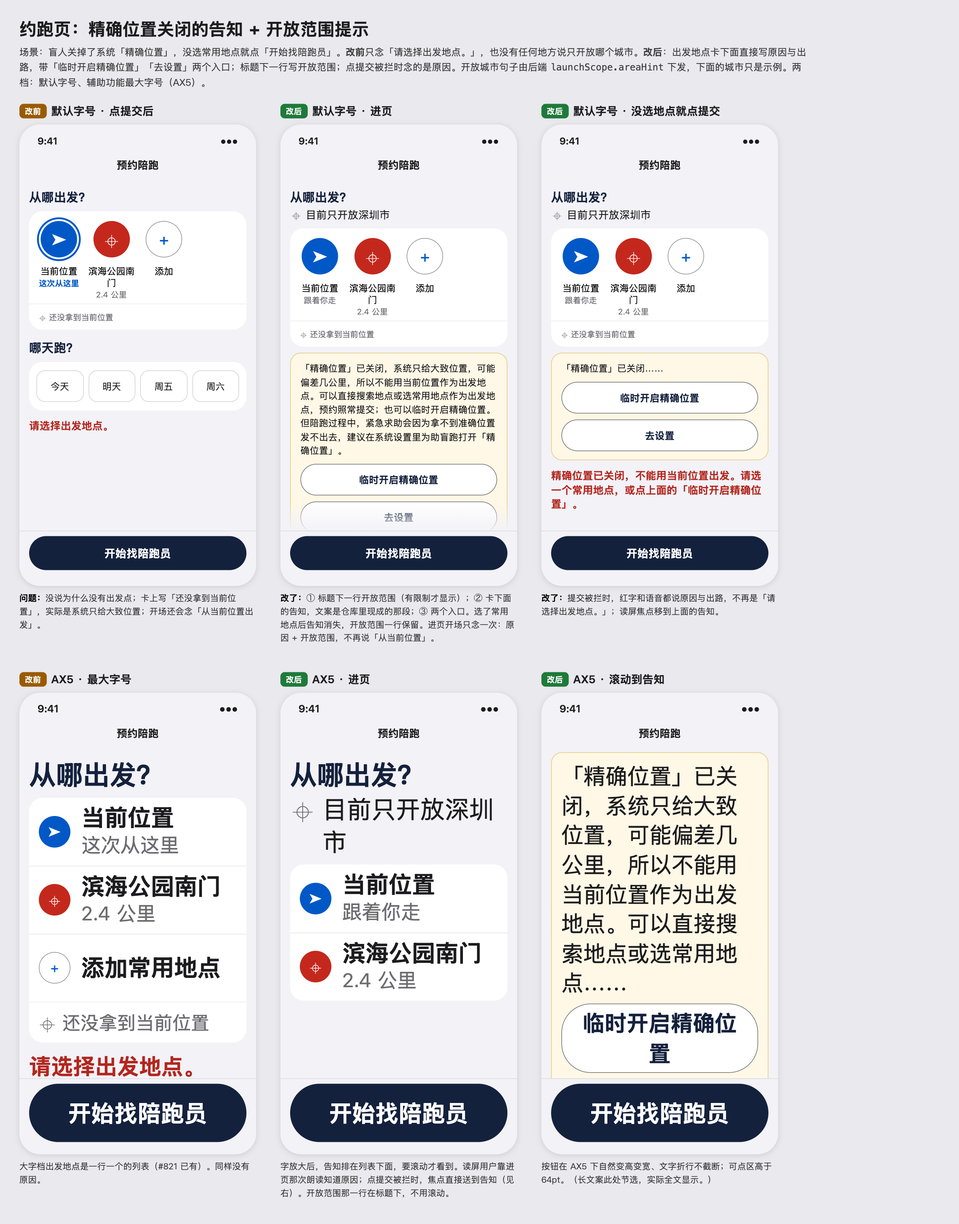
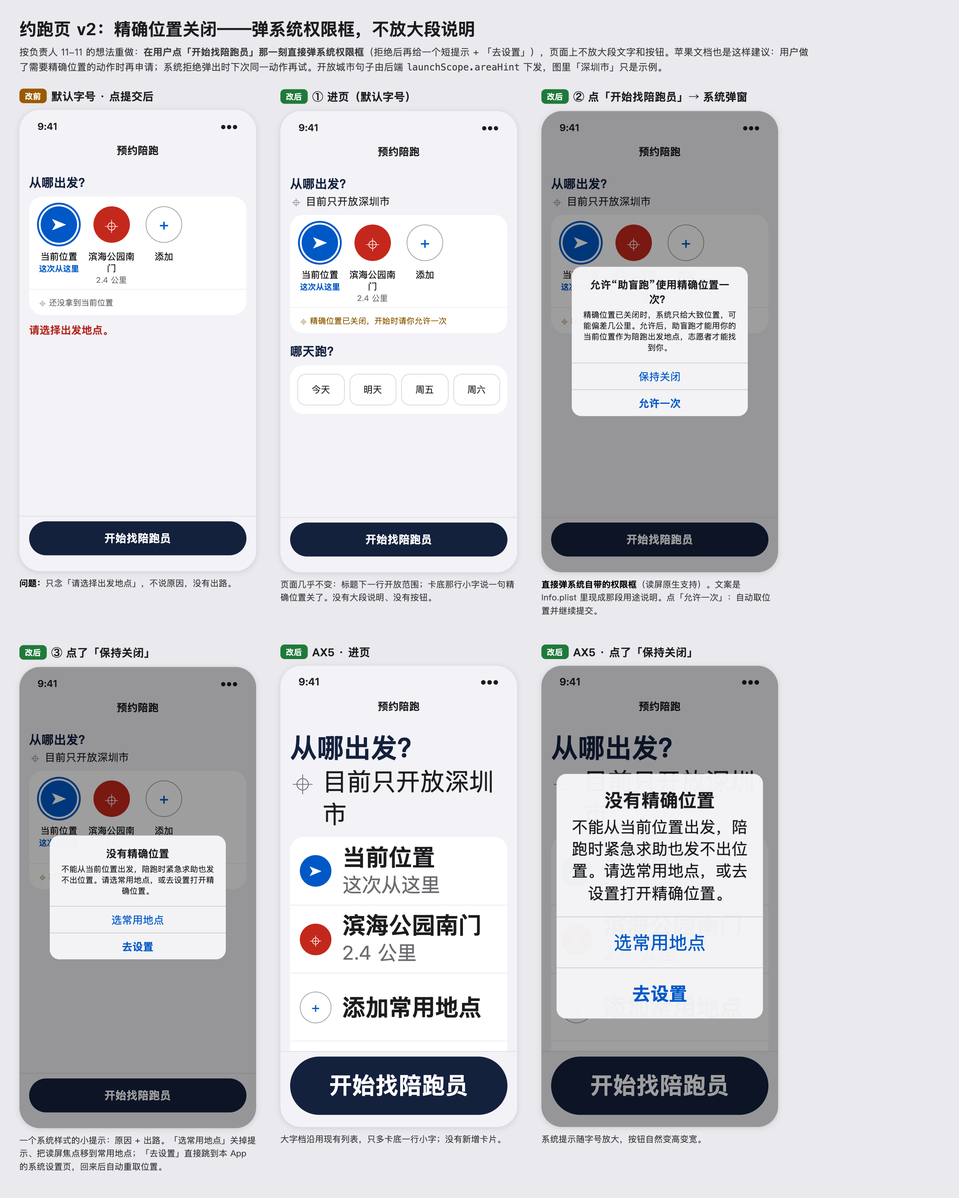
docs: 约跑页精确位置改弹系统权限框 v2 模拟图，附调研（#813）

diff --git a/docs/ui/mockups/booking-gate-20261111/booking-gate.html b/docs/ui/mockups/booking-gate-20261111/booking-gate.html
@@ -41,84 +41,36 @@ h1{font-size:28px;margin-bottom:6px}.lead{font-size:15.5px;color:#3a3a3c;margin-
 .ax .notice p{font-size:36px;line-height:1.35}.ax .btn{font-size:36px;min-height:96px;padding:6px 16px;text-align:center;border-radius:48px}
 .ax .det{font-size:30px}.ax .sub{height:96px;font-size:38px;border-radius:48px}.ax .bar{padding-bottom:20px}.ax .err{font-size:36px}
 .ax.phone .status,.ax.phone .nav{font-size:17px}
-</style></head><body>
-<h1>约跑页：精确位置关闭的告知 + 开放范围提示</h1>
-<p class="lead">场景：盲人关掉了系统「精确位置」，没选常用地点就点「开始找陪跑员」。<b>改前</b>只念「请选择出发地点。」，也没有任何地方说只开放哪个城市。<b>改后</b>：出发地点卡下面直接写原因与出路，带「临时开启精确位置」「去设置」两个入口；标题下一行写开放范围；点提交被拦时念的是原因。开放城市句子由后端 <code>launchScope.areaHint</code> 下发，下面的城市只是示例。两档：默认字号、辅助功能最大字号（AX5）。</p>
-<div class="grid">
 
-<!-- 1 改前 默认 -->
-<div><div class="lbl"><span class="tag t-old">改前</span>默认字号 · 点提交后</div>
-<div class="phone"><div class="status"><span>9:41</span><span>●●●</span></div><div class="nav">预约陪跑</div>
-<div class="page"><div class="h">从哪出发？</div>
-<div class="card"><div class="lib">
+.dim{position:absolute;inset:0;background:rgba(0,0,0,.38)}
+.alert{position:absolute;left:50%;top:50%;transform:translate(-50%,-50%);width:290px;background:rgba(246,246,248,.97);border-radius:16px;text-align:center;overflow:hidden}
+.alert .t{font-weight:600;font-size:17px;padding:18px 16px 4px}.alert .m{font-size:13px;line-height:1.4;padding:0 16px 16px;color:#1c1c1e}
+.alert .b{border-top:.5px solid #C6C6C8;min-height:44px;display:flex;align-items:center;justify-content:center;font-size:17px;color:var(--blue)}.alert .b.s{font-weight:600}
+.ax .alert{width:340px}.ax .alert .t{font-size:30px;padding:22px 16px 6px}.ax .alert .m{font-size:26px;padding:0 16px 20px}.ax .alert .b{font-size:30px;min-height:84px;padding:6px}
+.det.warn{color:#8A5A00}
+</style></head><body>
+<h1>约跑页 v2：精确位置关闭——弹系统权限框，不放大段说明</h1>
+<p class="lead">按负责人 11-11 的想法重做：<b>在用户点「开始找陪跑员」那一刻直接弹系统权限框</b>（拒绝后再给一个短提示 + 「去设置」），页面上不放大段文字和按钮。苹果文档也是这样建议：用户做了需要精确位置的动作时再申请；系统拒绝弹出时下次同一动作再试。开放城市句子由后端 <code>launchScope.areaHint</code> 下发，图里「深圳市」只是示例。</p>
+<div class="grid"><div><div class="lbl"><span class="tag t-old">改前</span>默认字号 · 点提交后</div><div class="phone "><div class="status"><span>9:41</span><span>●●●</span></div><div class="nav">预约陪跑</div><div class="page"><div class="h">从哪出发？</div><div class="card"><div class="lib">
 <div class="it sel"><div class="circ" style="background:#0058C7">➤</div><div class="nm">当前位置</div><div class="sb">这次从这里</div></div>
 <div class="it"><div class="circ" style="background:#C4281C">⌖</div><div class="nm">滨海公园南门</div><div class="sb">2.4 公里</div></div>
 <div class="it"><div class="circ" style="background:#fff;color:#0058C7;border:1px solid #8E8E93">+</div><div class="nm">添加</div></div></div>
-<div class="det">⌖ 还没拿到当前位置</div></div>
-<div class="h">哪天跑？</div><div class="card"><div class="strip"><span>今天</span><span>明天</span><span>周五</span><span>周六</span></div></div>
-<div class="err">请选择出发地点。</div></div>
-<div class="bar"><div class="sub">开始找陪跑员</div></div></div>
-<p class="cap"><b>问题：</b>没说为什么没有出发点；卡上写「还没拿到当前位置」，实际是系统只给大致位置；开场还会念「从当前位置出发」。</p></div>
-
-<!-- 2 改后 默认 -->
-<div><div class="lbl"><span class="tag t-new">改后</span>默认字号 · 进页</div>
-<div class="phone"><div class="status"><span>9:41</span><span>●●●</span></div><div class="nav">预约陪跑</div>
-<div class="page"><div class="h" style="margin-bottom:6px">从哪出发？</div>
-<div class="scope"><i>⌖</i><span>目前只开放深圳市</span></div>
-<div class="card"><div class="lib">
-<div class="it"><div class="circ" style="background:#0058C7">➤</div><div class="nm">当前位置</div><div class="sb">跟着你走</div></div>
+<div class="det ">⌖ 还没拿到当前位置</div></div><div class="err">请选择出发地点。</div></div><div class="bar"><div class="sub">开始找陪跑员</div></div></div><p class="cap"><b>问题：</b>只念「请选择出发地点」，不说原因，没有出路。</p></div><div><div class="lbl"><span class="tag t-new">改后</span>① 进页（默认字号）</div><div class="phone "><div class="status"><span>9:41</span><span>●●●</span></div><div class="nav">预约陪跑</div><div class="page"><div class="h" style="margin-bottom:6px">从哪出发？</div><div class="scope"><i>⌖</i><span>目前只开放深圳市</span></div><div class="card"><div class="lib">
+<div class="it sel"><div class="circ" style="background:#0058C7">➤</div><div class="nm">当前位置</div><div class="sb">这次从这里</div></div>
 <div class="it"><div class="circ" style="background:#C4281C">⌖</div><div class="nm">滨海公园南门</div><div class="sb">2.4 公里</div></div>
 <div class="it"><div class="circ" style="background:#fff;color:#0058C7;border:1px solid #8E8E93">+</div><div class="nm">添加</div></div></div>
-<div class="det">⌖ 还没拿到当前位置</div></div>
-<div class="notice"><p>「精确位置」已关闭，系统只给大致位置，可能偏差几公里，所以不能用当前位置作为出发地点。可以直接搜索地点或选常用地点作为出发地点，预约照常提交；也可以临时开启精确位置。但陪跑过程中，紧急求助会因为拿不到准确位置发不出去，建议在系统设置里为助盲跑打开「精确位置」。</p>
-<div class="btn">临时开启精确位置</div><div class="btn">去设置</div></div>
-<div class="h">哪天跑？</div></div>
-<div class="fade"></div><div class="bar"><div class="sub">开始找陪跑员</div></div></div>
-<p class="cap"><b>改了：</b>① 标题下一行开放范围（有限制才显示）；② 卡下面的告知，文案是仓库里现成的那段；③ 两个入口。选了常用地点后告知消失，开放范围一行保留。进页开场只念一次：原因 + 开放范围，不再说「从当前位置」。</p></div>
-
-<!-- 3 改后 默认 提交被拦 -->
-<div><div class="lbl"><span class="tag t-new">改后</span>默认字号 · 没选地点就点提交</div>
-<div class="phone"><div class="status"><span>9:41</span><span>●●●</span></div><div class="nav">预约陪跑</div>
-<div class="page"><div class="h" style="margin-bottom:6px">从哪出发？</div>
-<div class="scope"><i>⌖</i><span>目前只开放深圳市</span></div>
-<div class="card"><div class="lib">
-<div class="it"><div class="circ" style="background:#0058C7">➤</div><div class="nm">当前位置</div><div class="sb">跟着你走</div></div>
+<div class="det warn">⌖ 精确位置已关闭，开始时请你允许一次</div></div><div class="h">哪天跑？</div><div class="card"><div class="strip"><span>今天</span><span>明天</span><span>周五</span><span>周六</span></div></div></div><div class="bar"><div class="sub">开始找陪跑员</div></div></div><p class="cap">页面几乎不变：标题下一行开放范围；卡底那行小字说一句精确位置关了。没有大段说明、没有按钮。</p></div><div><div class="lbl"><span class="tag t-new">改后</span>② 点「开始找陪跑员」→ 系统弹窗</div><div class="phone "><div class="status"><span>9:41</span><span>●●●</span></div><div class="nav">预约陪跑</div><div class="page"><div class="h" style="margin-bottom:6px">从哪出发？</div><div class="scope"><i>⌖</i><span>目前只开放深圳市</span></div><div class="card"><div class="lib">
+<div class="it sel"><div class="circ" style="background:#0058C7">➤</div><div class="nm">当前位置</div><div class="sb">这次从这里</div></div>
 <div class="it"><div class="circ" style="background:#C4281C">⌖</div><div class="nm">滨海公园南门</div><div class="sb">2.4 公里</div></div>
 <div class="it"><div class="circ" style="background:#fff;color:#0058C7;border:1px solid #8E8E93">+</div><div class="nm">添加</div></div></div>
-<div class="det">⌖ 还没拿到当前位置</div></div>
-<div class="notice"><p>「精确位置」已关闭……</p><div class="btn">临时开启精确位置</div><div class="btn">去设置</div></div>
-<div class="err">精确位置已关闭，不能用当前位置出发。请选一个常用地点，或点上面的「临时开启精确位置」。</div></div>
-<div class="bar"><div class="sub">开始找陪跑员</div></div></div>
-<p class="cap"><b>改了：</b>提交被拦时，红字和语音都说原因与出路，不再是「请选择出发地点。」；读屏焦点移到上面的告知。</p></div>
-
-<!-- 4 改前 AX5 -->
-<div><div class="lbl"><span class="tag t-old">改前</span>AX5 · 最大字号</div>
-<div class="phone ax"><div class="status"><span>9:41</span><span>●●●</span></div><div class="nav">预约陪跑</div>
-<div class="page"><div class="h">从哪出发？</div>
-<div class="card"><div class="row"><div class="circ" style="background:#0058C7">➤</div><div><b>当前位置</b><s>这次从这里</s></div></div>
+<div class="det warn">⌖ 精确位置已关闭，开始时请你允许一次</div></div></div><div class="bar"><div class="sub">开始找陪跑员</div></div><div class="dim"></div><div class="alert"><div class="t">允许“助盲跑”使用精确位置一次？</div><div class="m">精确位置已关闭时，系统只给大致位置，可能偏差几公里。允许后，助盲跑才能用你的当前位置作为陪跑出发地点，志愿者才能找到你。</div><div class="b">保持关闭</div><div class="b s">允许一次</div></div></div><p class="cap"><b>直接弹系统自带的权限框</b>（读屏原生支持）。文案是 Info.plist 里现成那段用途说明。点「允许一次」：自动取位置并继续提交。</p></div><div><div class="lbl"><span class="tag t-new">改后</span>③ 点了「保持关闭」</div><div class="phone "><div class="status"><span>9:41</span><span>●●●</span></div><div class="nav">预约陪跑</div><div class="page"><div class="h" style="margin-bottom:6px">从哪出发？</div><div class="scope"><i>⌖</i><span>目前只开放深圳市</span></div><div class="card"><div class="lib">
+<div class="it sel"><div class="circ" style="background:#0058C7">➤</div><div class="nm">当前位置</div><div class="sb">这次从这里</div></div>
+<div class="it"><div class="circ" style="background:#C4281C">⌖</div><div class="nm">滨海公园南门</div><div class="sb">2.4 公里</div></div>
+<div class="it"><div class="circ" style="background:#fff;color:#0058C7;border:1px solid #8E8E93">+</div><div class="nm">添加</div></div></div>
+<div class="det warn">⌖ 精确位置已关闭，开始时请你允许一次</div></div></div><div class="bar"><div class="sub">开始找陪跑员</div></div><div class="dim"></div><div class="alert"><div class="t">没有精确位置</div><div class="m">不能从当前位置出发，陪跑时紧急求助也发不出位置。请选常用地点，或去设置打开精确位置。</div><div class="b">选常用地点</div><div class="b s">去设置</div></div></div><p class="cap">一个系统样式的小提示：原因 + 出路。「选常用地点」关掉提示、把读屏焦点移到常用地点；「去设置」直接跳到本 App 的系统设置页，回来后自动重取位置。</p></div><div><div class="lbl"><span class="tag t-new">改后</span>AX5 · 进页</div><div class="phone ax"><div class="status"><span>9:41</span><span>●●●</span></div><div class="nav">预约陪跑</div><div class="page"><div class="h" style="margin-bottom:6px">从哪出发？</div><div class="scope"><i>⌖</i><span>目前只开放深圳市</span></div><div class="card"><div class="row"><div class="circ" style="background:#0058C7">➤</div><div><b>当前位置</b><s>这次从这里</s></div></div>
 <div class="row"><div class="circ" style="background:#C4281C">⌖</div><div><b>滨海公园南门</b><s>2.4 公里</s></div></div>
 <div class="row"><div class="circ" style="background:#fff;color:#0058C7;border:1px solid #8E8E93">+</div><div><b>添加常用地点</b></div></div>
-<div class="det">⌖ 还没拿到当前位置</div></div>
-<div class="err">请选择出发地点。</div></div>
-<div class="bar"><div class="sub">开始找陪跑员</div></div></div>
-<p class="cap">大字档出发地点是一行一个的列表（#821 已有）。同样没有原因。</p></div>
-
-<!-- 5 改后 AX5 -->
-<div><div class="lbl"><span class="tag t-new">改后</span>AX5 · 进页</div>
-<div class="phone ax"><div class="status"><span>9:41</span><span>●●●</span></div><div class="nav">预约陪跑</div>
-<div class="page"><div class="h" style="margin-bottom:6px">从哪出发？</div>
-<div class="scope"><i>⌖</i><span>目前只开放深圳市</span></div>
-<div class="card"><div class="row"><div class="circ" style="background:#0058C7">➤</div><div><b>当前位置</b><s>跟着你走</s></div></div>
-<div class="row"><div class="circ" style="background:#C4281C">⌖</div><div><b>滨海公园南门</b><s>2.4 公里</s></div></div></div></div>
-<div class="fade"></div><div class="bar"><div class="sub">开始找陪跑员</div></div></div>
-<p class="cap">字放大后，告知排在列表下面，要滚动才看到。读屏用户靠进页那次朗读知道原因；点提交被拦时，焦点直接送到告知（见右）。开放范围那一行在标题下，不用滚动。</p></div>
-
-<!-- 6 改后 AX5 滚动后 -->
-<div><div class="lbl"><span class="tag t-new">改后</span>AX5 · 滚动到告知</div>
-<div class="phone ax"><div class="status"><span>9:41</span><span>●●●</span></div><div class="nav">预约陪跑</div>
-<div class="page" style="padding-top:8px"><div class="notice" style="margin-top:0"><p>「精确位置」已关闭，系统只给大致位置，可能偏差几公里，所以不能用当前位置作为出发地点。可以直接搜索地点或选常用地点……</p>
-<div class="btn">临时开启精确位置</div><div class="btn">去设置</div></div></div>
-<div class="bar"><div class="sub">开始找陪跑员</div></div></div>
-<p class="cap">按钮在 AX5 下自然变高变宽、文字折行不截断；可点区高于 64pt。（长文案此处节选，实际全文显示。）</p></div>
-
-</div></body></html>
+<div class="det warn">⌖ 精确位置已关闭</div></div></div><div class="bar"><div class="sub">开始找陪跑员</div></div></div><p class="cap">大字档沿用现有列表，只多卡底一行小字；没有新增卡片。</p></div><div><div class="lbl"><span class="tag t-new">改后</span>AX5 · 点了「保持关闭」</div><div class="phone ax"><div class="status"><span>9:41</span><span>●●●</span></div><div class="nav">预约陪跑</div><div class="page"><div class="h" style="margin-bottom:6px">从哪出发？</div><div class="scope"><i>⌖</i><span>目前只开放深圳市</span></div><div class="card"><div class="row"><div class="circ" style="background:#0058C7">➤</div><div><b>当前位置</b><s>这次从这里</s></div></div>
+<div class="row"><div class="circ" style="background:#C4281C">⌖</div><div><b>滨海公园南门</b><s>2.4 公里</s></div></div>
+<div class="row"><div class="circ" style="background:#fff;color:#0058C7;border:1px solid #8E8E93">+</div><div><b>添加常用地点</b></div></div>
+<div class="det warn">⌖ 精确位置已关闭</div></div></div><div class="bar"><div class="sub">开始找陪跑员</div></div><div class="dim"></div><div class="alert"><div class="t">没有精确位置</div><div class="m">不能从当前位置出发，陪跑时紧急求助也发不出位置。请选常用地点，或去设置打开精确位置。</div><div class="b">选常用地点</div><div class="b s">去设置</div></div></div><p class="cap">系统提示随字号放大，按钮自然变高变宽。</p></div></div></body></html>

diff --git a/docs/ui/mockups/booking-gate-20261111/booking-gate-v1.html b/docs/ui/mockups/booking-gate-20261111/booking-gate-v1.html
@@ -1,0 +1,124 @@
+<!doctype html>
+<html lang="zh-CN"><head><meta charset="utf-8"><title>约跑页：位置降级告知 + 开放范围提示（#813）</title>
+<style>
+:root{--bg:#F2F2F7;--card:#fff;--sec:#6C6C70;--sep:#E5E5EA;--blue:#0058C7;--navy:#14213D;--red:#B3261E}
+*{box-sizing:border-box;margin:0;padding:0}
+body{font-family:-apple-system,"PingFang SC",sans-serif;background:#E9E9EE;color:#1c1c1e;padding:28px 32px 40px;width:1500px}
+h1{font-size:28px;margin-bottom:6px}.lead{font-size:15.5px;color:#3a3a3c;margin-bottom:22px;line-height:1.6;max-width:1300px}
+.grid{display:grid;grid-template-columns:repeat(3,390px);gap:44px 40px}
+.lbl{font-size:18px;font-weight:700;margin:0 0 10px;display:flex;align-items:center;gap:8px}
+.tag{font-size:13px;font-weight:600;padding:3px 9px;border-radius:7px;color:#fff}.t-old{background:#9A5B00}.t-new{background:#1F7A3A}
+.cap{font-size:14px;color:#3a3a3c;margin-top:10px;line-height:1.55;width:390px}.cap b{color:#000}
+.phone{width:390px;height:760px;background:var(--bg);border-radius:34px;overflow:hidden;position:relative;box-shadow:0 2px 10px rgba(0,0,0,.12)}
+.status{height:44px;display:flex;justify-content:space-between;align-items:flex-end;padding:0 30px 6px;font-weight:600;font-size:16px}
+.nav{height:46px;display:flex;align-items:center;justify-content:center;font-weight:600;font-size:17px}
+.page{padding:0 16px}
+.h{font-size:20px;font-weight:700;color:var(--navy);margin:16px 0 9px}
+.card{background:var(--card);border-radius:22px;overflow:hidden}
+.lib{display:grid;grid-template-columns:repeat(4,1fr);padding:16px 6px 6px}
+.it{display:flex;flex-direction:column;align-items:center;text-align:center}
+.circ{width:60px;height:60px;border-radius:30px;display:flex;align-items:center;justify-content:center;color:#fff;font-size:26px}
+.it.sel .circ{box-shadow:0 0 0 3px #fff,0 0 0 6px var(--blue)}
+.nm{font-size:15px;line-height:19px;margin-top:13px;color:#000}.sb{font-size:13px;color:var(--sec);margin-top:1px}.it.sel .sb{color:var(--blue);font-weight:600}
+.det{display:flex;gap:6px;padding:12px 16px;border-top:.5px solid #ECECF0;font-size:13px;color:var(--sec)}
+.scope{display:flex;gap:8px;align-items:flex-start;font-size:17px;color:#1c1c1e;line-height:1.35;margin:-2px 2px 10px}
+.scope i{font-style:normal;color:var(--sec)}
+.notice{margin-top:10px;background:#FFF8E6;border:1px solid #E5C77A;border-radius:18px;padding:14px 16px}
+.notice p{font-size:15px;line-height:1.5;color:#1c1c1e}
+.btn{margin-top:10px;min-height:52px;border:1.5px solid #6C6C70;border-radius:26px;background:#fff;display:flex;align-items:center;justify-content:center;font-weight:600;font-size:16px;color:var(--navy)}
+.err{margin-top:14px;font-size:17px;font-weight:700;color:var(--red);line-height:1.4}
+.bar{position:absolute;left:0;right:0;bottom:0;background:var(--bg);padding:8px 16px 26px;border-top:.5px solid #DADADF}
+.sub{height:56px;border-radius:28px;background:var(--navy);color:#fff;display:flex;align-items:center;justify-content:center;font-weight:600;font-size:18px}
+.strip{display:flex;gap:8px;padding:14px 12px}.strip span{flex:1;height:52px;border-radius:14px;border:1px solid #D1D1D6;display:flex;align-items:center;justify-content:center;font-size:15px}
+.fade{position:absolute;left:0;right:0;bottom:88px;height:50px;background:linear-gradient(transparent,var(--bg))}
+/* AX5：字约 2.3 倍，圆排改一行一个的列表 */
+.ax .h{font-size:44px;line-height:1.15;margin:20px 0 12px}
+.ax .scope{font-size:40px;gap:14px}
+.ax .row{display:flex;align-items:center;gap:18px;min-height:112px;padding:10px 16px}
+.ax .row+.row{border-top:.5px solid var(--sep)}
+.ax .circ{width:52px;height:52px;border-radius:26px;font-size:22px;flex:none}
+.ax .row b{display:block;font-size:38px;line-height:1.15;font-weight:600}.ax .row s{display:block;text-decoration:none;font-size:32px;color:var(--sec)}
+.ax .notice p{font-size:36px;line-height:1.35}.ax .btn{font-size:36px;min-height:96px;padding:6px 16px;text-align:center;border-radius:48px}
+.ax .det{font-size:30px}.ax .sub{height:96px;font-size:38px;border-radius:48px}.ax .bar{padding-bottom:20px}.ax .err{font-size:36px}
+.ax.phone .status,.ax.phone .nav{font-size:17px}
+</style></head><body>
+<h1>约跑页：精确位置关闭的告知 + 开放范围提示</h1>
+<p class="lead">场景：盲人关掉了系统「精确位置」，没选常用地点就点「开始找陪跑员」。<b>改前</b>只念「请选择出发地点。」，也没有任何地方说只开放哪个城市。<b>改后</b>：出发地点卡下面直接写原因与出路，带「临时开启精确位置」「去设置」两个入口；标题下一行写开放范围；点提交被拦时念的是原因。开放城市句子由后端 <code>launchScope.areaHint</code> 下发，下面的城市只是示例。两档：默认字号、辅助功能最大字号（AX5）。</p>
+<div class="grid">
+
+<!-- 1 改前 默认 -->
+<div><div class="lbl"><span class="tag t-old">改前</span>默认字号 · 点提交后</div>
+<div class="phone"><div class="status"><span>9:41</span><span>●●●</span></div><div class="nav">预约陪跑</div>
+<div class="page"><div class="h">从哪出发？</div>
+<div class="card"><div class="lib">
+<div class="it sel"><div class="circ" style="background:#0058C7">➤</div><div class="nm">当前位置</div><div class="sb">这次从这里</div></div>
+<div class="it"><div class="circ" style="background:#C4281C">⌖</div><div class="nm">滨海公园南门</div><div class="sb">2.4 公里</div></div>
+<div class="it"><div class="circ" style="background:#fff;color:#0058C7;border:1px solid #8E8E93">+</div><div class="nm">添加</div></div></div>
+<div class="det">⌖ 还没拿到当前位置</div></div>
+<div class="h">哪天跑？</div><div class="card"><div class="strip"><span>今天</span><span>明天</span><span>周五</span><span>周六</span></div></div>
+<div class="err">请选择出发地点。</div></div>
+<div class="bar"><div class="sub">开始找陪跑员</div></div></div>
+<p class="cap"><b>问题：</b>没说为什么没有出发点；卡上写「还没拿到当前位置」，实际是系统只给大致位置；开场还会念「从当前位置出发」。</p></div>
+
+<!-- 2 改后 默认 -->
+<div><div class="lbl"><span class="tag t-new">改后</span>默认字号 · 进页</div>
+<div class="phone"><div class="status"><span>9:41</span><span>●●●</span></div><div class="nav">预约陪跑</div>
+<div class="page"><div class="h" style="margin-bottom:6px">从哪出发？</div>
+<div class="scope"><i>⌖</i><span>目前只开放深圳市</span></div>
+<div class="card"><div class="lib">
+<div class="it"><div class="circ" style="background:#0058C7">➤</div><div class="nm">当前位置</div><div class="sb">跟着你走</div></div>
+<div class="it"><div class="circ" style="background:#C4281C">⌖</div><div class="nm">滨海公园南门</div><div class="sb">2.4 公里</div></div>
+<div class="it"><div class="circ" style="background:#fff;color:#0058C7;border:1px solid #8E8E93">+</div><div class="nm">添加</div></div></div>
+<div class="det">⌖ 还没拿到当前位置</div></div>
+<div class="notice"><p>「精确位置」已关闭，系统只给大致位置，可能偏差几公里，所以不能用当前位置作为出发地点。可以直接搜索地点或选常用地点作为出发地点，预约照常提交；也可以临时开启精确位置。但陪跑过程中，紧急求助会因为拿不到准确位置发不出去，建议在系统设置里为助盲跑打开「精确位置」。</p>
+<div class="btn">临时开启精确位置</div><div class="btn">去设置</div></div>
+<div class="h">哪天跑？</div></div>
+<div class="fade"></div><div class="bar"><div class="sub">开始找陪跑员</div></div></div>
+<p class="cap"><b>改了：</b>① 标题下一行开放范围（有限制才显示）；② 卡下面的告知，文案是仓库里现成的那段；③ 两个入口。选了常用地点后告知消失，开放范围一行保留。进页开场只念一次：原因 + 开放范围，不再说「从当前位置」。</p></div>
+
+<!-- 3 改后 默认 提交被拦 -->
+<div><div class="lbl"><span class="tag t-new">改后</span>默认字号 · 没选地点就点提交</div>
+<div class="phone"><div class="status"><span>9:41</span><span>●●●</span></div><div class="nav">预约陪跑</div>
+<div class="page"><div class="h" style="margin-bottom:6px">从哪出发？</div>
+<div class="scope"><i>⌖</i><span>目前只开放深圳市</span></div>
+<div class="card"><div class="lib">
+<div class="it"><div class="circ" style="background:#0058C7">➤</div><div class="nm">当前位置</div><div class="sb">跟着你走</div></div>
+<div class="it"><div class="circ" style="background:#C4281C">⌖</div><div class="nm">滨海公园南门</div><div class="sb">2.4 公里</div></div>
+<div class="it"><div class="circ" style="background:#fff;color:#0058C7;border:1px solid #8E8E93">+</div><div class="nm">添加</div></div></div>
+<div class="det">⌖ 还没拿到当前位置</div></div>
+<div class="notice"><p>「精确位置」已关闭……</p><div class="btn">临时开启精确位置</div><div class="btn">去设置</div></div>
+<div class="err">精确位置已关闭，不能用当前位置出发。请选一个常用地点，或点上面的「临时开启精确位置」。</div></div>
+<div class="bar"><div class="sub">开始找陪跑员</div></div></div>
+<p class="cap"><b>改了：</b>提交被拦时，红字和语音都说原因与出路，不再是「请选择出发地点。」；读屏焦点移到上面的告知。</p></div>
+
+<!-- 4 改前 AX5 -->
+<div><div class="lbl"><span class="tag t-old">改前</span>AX5 · 最大字号</div>
+<div class="phone ax"><div class="status"><span>9:41</span><span>●●●</span></div><div class="nav">预约陪跑</div>
+<div class="page"><div class="h">从哪出发？</div>
+<div class="card"><div class="row"><div class="circ" style="background:#0058C7">➤</div><div><b>当前位置</b><s>这次从这里</s></div></div>
+<div class="row"><div class="circ" style="background:#C4281C">⌖</div><div><b>滨海公园南门</b><s>2.4 公里</s></div></div>
+<div class="row"><div class="circ" style="background:#fff;color:#0058C7;border:1px solid #8E8E93">+</div><div><b>添加常用地点</b></div></div>
+<div class="det">⌖ 还没拿到当前位置</div></div>
+<div class="err">请选择出发地点。</div></div>
+<div class="bar"><div class="sub">开始找陪跑员</div></div></div>
+<p class="cap">大字档出发地点是一行一个的列表（#821 已有）。同样没有原因。</p></div>
+
+<!-- 5 改后 AX5 -->
+<div><div class="lbl"><span class="tag t-new">改后</span>AX5 · 进页</div>
+<div class="phone ax"><div class="status"><span>9:41</span><span>●●●</span></div><div class="nav">预约陪跑</div>
+<div class="page"><div class="h" style="margin-bottom:6px">从哪出发？</div>
+<div class="scope"><i>⌖</i><span>目前只开放深圳市</span></div>
+<div class="card"><div class="row"><div class="circ" style="background:#0058C7">➤</div><div><b>当前位置</b><s>跟着你走</s></div></div>
+<div class="row"><div class="circ" style="background:#C4281C">⌖</div><div><b>滨海公园南门</b><s>2.4 公里</s></div></div></div></div>
+<div class="fade"></div><div class="bar"><div class="sub">开始找陪跑员</div></div></div>
+<p class="cap">字放大后，告知排在列表下面，要滚动才看到。读屏用户靠进页那次朗读知道原因；点提交被拦时，焦点直接送到告知（见右）。开放范围那一行在标题下，不用滚动。</p></div>
+
+<!-- 6 改后 AX5 滚动后 -->
+<div><div class="lbl"><span class="tag t-new">改后</span>AX5 · 滚动到告知</div>
+<div class="phone ax"><div class="status"><span>9:41</span><span>●●●</span></div><div class="nav">预约陪跑</div>
+<div class="page" style="padding-top:8px"><div class="notice" style="margin-top:0"><p>「精确位置」已关闭，系统只给大致位置，可能偏差几公里，所以不能用当前位置作为出发地点。可以直接搜索地点或选常用地点……</p>
+<div class="btn">临时开启精确位置</div><div class="btn">去设置</div></div></div>
+<div class="bar"><div class="sub">开始找陪跑员</div></div></div>
+<p class="cap">按钮在 AX5 下自然变高变宽、文字折行不截断；可点区高于 64pt。（长文案此处节选，实际全文显示。）</p></div>
+
+</div></body></html>

diff --git a/docs/ui/mockups/INDEX.md b/docs/ui/mockups/INDEX.md
@@ -85,4 +85,4 @@ Claude Design 官方自认「没有版本历史」（[support.claude.com 原文]
 | 盲人端 订单终态页：已取消 / 暂无志愿者（头卡 + 信息卡 + 底栏一个主按钮） | `cancelled-order-20261106/`（`draft.html`，浅 / 深色与无人接单三屏；无 PNG：渲染工具读不了 file 协议） | Superseded（2026-11-11 被 `blind-order-terminal-v7-20261111/` 取代） | 取代订单页对 `CANCELLED` / `NO_VOLUNTEER` 退回的改版前只读列表（灰板 + 两个蓝色实心按钮 + 描边按钮） | 负责人 2026-11-06 看效果图批准（#818）；头卡用现有「已暂停灰」`statePaused`，不新增颜色；订单页其余状态的骨架不动 | `BlindOrderStatusView+Terminal.swift`，接入点 `BlindOrderStatusView+Flow.swift` `content` 与 `BlindOrderStatusView.swift` 的标题 / 小喇叭 / 底栏判定 | 有意偏差（我替负责人定、可否决）：终态页去掉「问一句」（骨架态它在求助中心，终态没有）、没有「求助与安全」、不加「重新预约」、取消后不自动回首页。未真机、未对照：仅编译。`.unknown` 仍走旧只读页 |
 | 已完成订单页只留绿色卡；跑者跑步详情底部改成「陪跑员」一节（设为固定搭档，点进这个人的页面举报 / 不再匹配）+「这次陪跑怎么样」，去掉「订单详情与评价」「举报」「不再匹配此人」三行 | `order-done-review-20261107/`（`draft.html` + `draft.png` 定稿 v3；`real/` 是真机截图底图，Mock 数据） | Current（负责人 2026-11-07 定五条，见 DECISION）；**已完成订单页（第 1 条「只留绿色卡」）2026-11-09 起被 `blind-order-tracking-20261109/` ⑧ 取代；跑步详情部分仍有效** | 取代 `run-record-polish-20261107/` 第 2 项（甲乙丙）与 `BlindOrderStatusView+Flow.swift` 已完成那一幕 2026-09-17「原样接回来」的评价、固定搭档、本单信息、状态记录 | `order-done-review-20261107/DECISION.md`；issue #831 | `BlindOrderStatusView*.swift` `RunnerRunRecordView.swift` `RunnerRunRecordFeedbackSections.swift` `RunnerRunFeedbackViewModel.swift` `RunExperienceRating.swift` `Voice/VoiceDictationButton.swift`，个人页复用 `Shared/BlindPartnerDetailView.swift` | 已实现（PR #833，只编译、没跑真机、没截图）。有意偏差：① 本页刚提交的评价只读卡没有评价时间，下次进来才显示后端的时间；② 查不到是不是搭档时，个人页不给「设为 / 取消固定搭档」，只留举报和不再匹配；③ 个人页里设为 / 取消固定搭档成功后，结果写在跑步详情「陪跑员」卡里。未画：深色、最大字号；陪跑员端不改 |
 | 盲人端 订单页全流程改版（顶栏 + 右上角求助胶囊 → 深色状态头或地图 → 白色抽屉 + 竖向时间轴 → 底部一个深色主按钮；出发 / 已到达态地图显示自己与陪跑员） | `blind-order-tracking-20261109/`（`owner-draft-*.png` 负责人原稿；`draft.html` + `draft.png` v7：①–④ 竖线只展开当前一步、六步并成五步（11-11）；v6 补通话与确认两屏；统一竖线（出发起拉起抽屉才逐渐显示），出发起地图常驻只换抽屉；参考截图见 `REFERENCES.md`；`v7-proposal.*` 是 v6 / v7 对比） | Current（负责人 2026-11-09 定稿 v6，2026-11-11 定稿 v7，原话「可以我同意」） | 取代 `blind-redesign-20261007/` 订单页部分（匹配 / 约好 / 出发 / 汇合 / 跑步中的头卡与 `RopeView`）；推翻 10-06 / 10-07「求助留在底部」；进度只用竖线（v3 横向胶囊作废）；⑧ 取代 `order-done-review-20261107/` 的已完成订单页；②③ 取代 `intro-call-meetup-plan-20261015/` 盲人端 B1–B3 与 `blind-match-first-20261106/` B3 的版式（内容与文案不变）；**首页订单卡不在范围** | `DECISION.md`（十条决定与原话）；issue #909；缺的 `eta` / `suggestedDepartAt` 见 Jayden23018/blind-run-backend#943 | `BlindOrderFlowView.swift` `BlindOrderFlowStep.swift` `BlindOrderStatusView+Flow.swift` `BlindOrderStatusView.swift` `BlindIntroCallView.swift` | 未实现 |
-| 盲人端 约跑页「精确位置关闭告知 + 开放范围提示」 | `booking-gate-20261111/` | 待确认 | 无（加在 v5 约跑页上） | `booking-gate-20261111/DECISION.md`（负责人尚未批） | `BlindMatchFirstBookingView.swift`（未实现，批准后做） | 未实现，未逐屏对照。#813；开放城市由后端 `areaHint` 下发 |
+| 盲人端 约跑页「精确位置关闭告知 + 开放范围提示」 | `booking-gate-20261111/` | 待确认 | 无（加在 v5 约跑页上） | `booking-gate-20261111/DECISION.md`（负责人尚未批） | `BlindMatchFirstBookingView.swift`（未实现，批准后做） | v2 现行稿（v1 说明卡被负责人否）。未实现，未逐屏对照。#813；开放城市由后端 `areaHint` 下发 |

diff --git a/docs/research/INDEX.md b/docs/research/INDEX.md
@@ -105,3 +105,4 @@
 | 2026-11-11 | 等待中的进度提示（「正在扩大搜索范围」）用浮层还是写在页面里？几条同时到怎么办（#949）？ | **没查到任何一手来源支持用顶部浮层播等待进度**：HIG《Notifications》前台要把新数据加进当前视图、同一件事不多发；《Alerts》只有信息就不用 alert；Material Snackbar 一次一条、新的替换旧的；WCAG 4.1.3 进度是不抢焦点的状态消息；WWDC23 低档播报有新的就丢旧的 ⇒ 进度写进订单页 ① 那一行原位替换，读屏只念最后一条，不说第 N 轮。没查到：打车类「找司机」页的真机截图与措辞 | 打车类找到官方截图或措辞；HIG 改前台通知规则 | [dispatch-progress-notice-20261111.md](dispatch-progress-notice-20261111.md) |
 | 2026-11-01 | 公开仓库里放阿里云实人认证 SDK 二进制、依赖高德 SDK，条款允许吗？ | **阿里云未查到明确允许公开托管的条款**，现行协议 §10.1 写明未经明示同意不得复制传播；2018 版允许随产品传播的条款现行版已搜不到，不能当依据。高德二进制不在仓库内，不涉及。不下法律结论，要阿里云答复 | 阿里云答复工单；SDK 移出仓库；阿里云产品服务协议改版；本仓库换许可证 | [third-party-sdk-licensing-20261101.md](./third-party-sdk-licensing-20261101.md) |
 | 2026-11-01 | COSCon'26 青少年论坛的投稿要求是什么？ | 11 月 14–15 日在杭州举行，11 月 6 日截止，面向中小学生和本科生，形式 Talk 或 Poster | 官方改期或改要求 | [Notion 调研记录](https://app.notion.com/p/40add43bda7d8149825eef0cbc24c107) |
+| 2026-11-11 | 盲人关了「精确位置」，约跑页怎么提示才简洁（#813）？别家怎么做？ | 苹果文档：临时精确位置可在用户做相关动作时请求，被拒下次同一动作再试；Uber 只说选大致位置要手输地址。⚠ 滴滴 / 美团 / 高德 / Lyft 的真实界面没查到。结论：点提交时直接弹系统权限框，被拒后短提示 + 去设置 | Apple 改临时精确位置行为；拿到别家真机截图与结论不符 | [precise-location-prompt-20261111.md](./precise-location-prompt-20261111.md) |

diff --git a/docs/research/precise-location-prompt-20261111.md b/docs/research/precise-location-prompt-20261111.md
@@ -1,0 +1,22 @@
+# 精确位置关闭时，下单页怎么提示（#813）
+
+调研日期 2026-11-11。问题：盲人关了「精确位置」，约跑页该用什么形态提示，才不丑、不长。
+
+## 查到的
+- **Apple 文档**（`CLLocationManager.requestTemporaryFullAccuracyAuthorization(withPurposeKey:completion:)`，2026-11-11 经 developer.apple.com 的 JSON 地址取回）：
+  可申请一次临时精确位置；用户允许后，App 在前台一直有效，直到权限自动过期；
+  App 在后台、已有精确权限、Info.plist 没有对应用途键时，请求一定失败；
+  失败时「记录错误，下次用户再做那个需要精确位置的动作时重试」。
+- **HIG 隐私页**（经搜索摘要，没读原页）：等用户用到需要权限的功能时再请求；需要多解释可在系统框前放一个自定义页。
+- **Uber 帮助页**（help.uber.com，经搜索摘要）：选「大致位置」仍能叫车，但上下车地址要自己输入。
+- **Radar 博客**：只给了大致位置的用户，在导航、路边取货等具体功能处再申请临时精确位置。
+
+## 没查到的
+滴滴、美团、高德、Lyft、DoorDash 在精确位置关闭时的真实界面：搜不到文字说明，没有截图。不能说「别家都这样做」。
+
+## 结论
+用户点「开始找陪跑员」时直接请求临时精确位置（系统框，读屏原生支持）；被拒后给一个短提示，出路是「选常用地点」「去设置」。
+本仓库已有 `LocationService.requestTemporaryPreciseLocationAndWaitForAnswer(for:)` 与 Info.plist 用途键 `AidRunBookingStartPoint`。
+
+## 复核触发条件
+Apple 改临时精确位置的行为；拿到别家真机截图与结论不符。

diff --git a/docs/ui/mockups/booking-gate-20261111/DECISION.md b/docs/ui/mockups/booking-gate-20261111/DECISION.md
@@ -1,7 +1,8 @@
-# 约跑页：精确位置关闭告知 + 开放范围提示（#813）
+# 约跑页：精确位置关闭 + 开放范围提示（#813）
 
-- 状态：**待确认**（负责人 2026-11-11 尚未批）。批准前不改 Swift。
-- 稿：`booking-gate.png` / `booking-gate.html`。改前 / 改后 × 默认字号 / AX5，共 6 屏。
-- 开放城市句子由后端 `launchScope.areaHint` 下发，稿里的「深圳市」只是示例；客户端不写死城市。
-- 文案不新写：告知复用 `BlindBookingViewModel.preciseLocationOffNotice` / `locationDeniedNotice`。
-- 不在本稿：隐私提醒（法律文案，后放）、50 米精度核对、重复当前状态、默认地点自动带入、缺项卡。
+- 状态：**待确认**。v1（大段说明卡 + 两个按钮，`booking-gate-v1.*`）负责人 2026-11-11 不同意，嫌丑、嫌长。
+- v2（现行稿，`booking-gate.png` / `.html`）：点「开始找陪跑员」时直接弹系统权限框；拒绝后一个系统样式小提示（原因 + 选常用地点 / 去设置）；页面只加一行开放范围和卡底一行小字。
+- 开放城市句子由后端 `launchScope.areaHint` 下发，稿里「深圳市」只是示例。
+- 依据：`docs/research/precise-location-prompt-20261111.md`。
+- 要同步改的规格：`openspec/specs/blind-precise-location-gate/spec.md`「精确位置关闭时下单不用当前位置作出发点」（原要求页面显示降级告知 + 两个入口）。
+- 不在本稿：隐私提醒（后放）、50 米精度核对、重复当前状态、默认地点自动带入、缺项卡。
